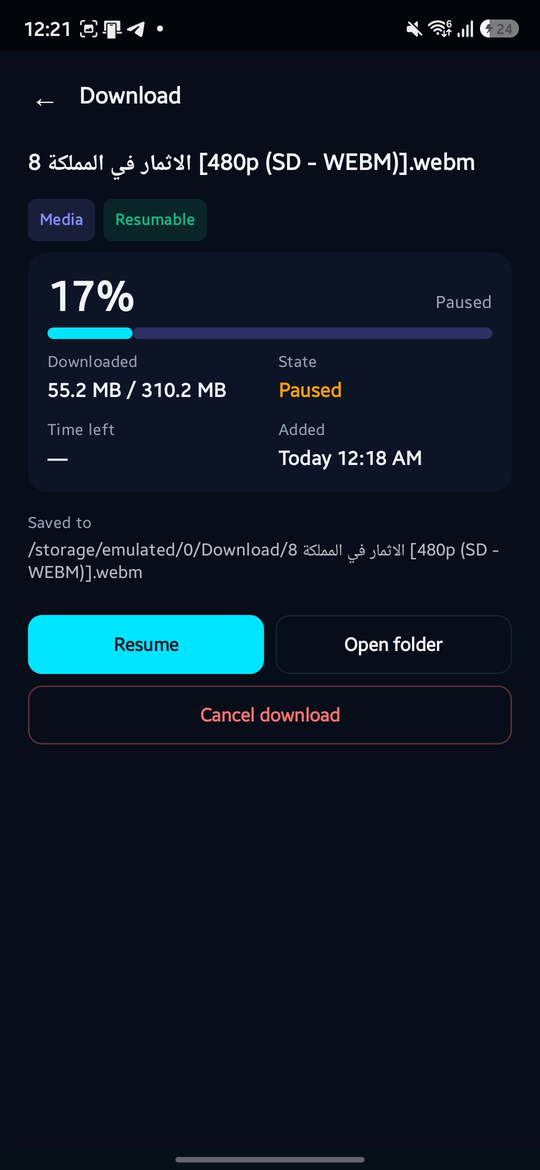
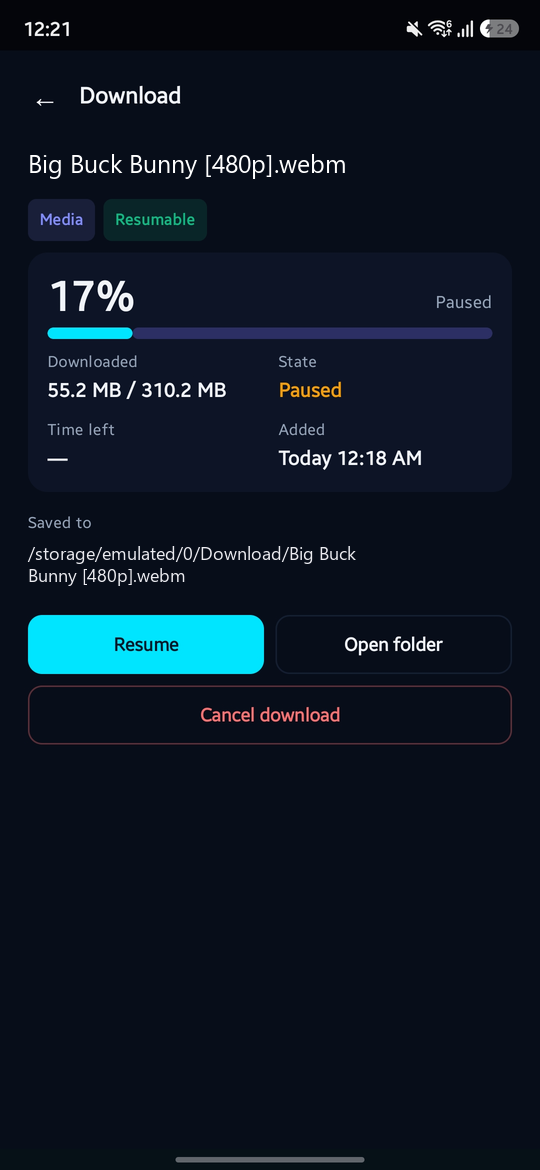
README: Windows is Store or MSI only; phone screenshots with test data

Changed region(s): [[0.0296, 0.4615, 0.8889, 0.5231], [0.0593, 0.1231, 0.8889, 0.1538], [0.1481, 0.0, 0.2667, 0.0308]]

diff --git a/README.md b/README.md
@@ -58,7 +58,7 @@ platform, with the right file highlighted for your device.
 
 | Platform                                | File                                                                                                | Notes                                                                           |
 |-----------------------------------------|-----------------------------------------------------------------------------------------------------|---------------------------------------------------------------------------------|
-| Windows 10 / 11                         | [Microsoft Store](https://apps.microsoft.com/detail/9NP3HJRHMPJS) (recommended), or `.msi` / `.exe` | The Store keeps it updated; the MSI updates itself from GitHub.                 |
+| Windows 10 / 11                         | [Microsoft Store](https://apps.microsoft.com/detail/9NP3HJRHMPJS) (recommended), or `.msi` | The Store keeps it updated; the MSI updates itself from GitHub.                 |
 | macOS 12+ (Apple Silicon)               | `-arm64.dmg`                                                                                        | M1 or newer only. Drag FetchJet to Applications (in-app updates need it there). |
 | Linux                                   | `.deb` or `.tar.gz`                                                                                 | The tarball runs anywhere: unpack and start `bin/FetchJet`.                     |
 | Android 8+                              | `.apk`                                                                                              | `arm64-v8a` fits almost every phone; take *universal* if unsure.                |
